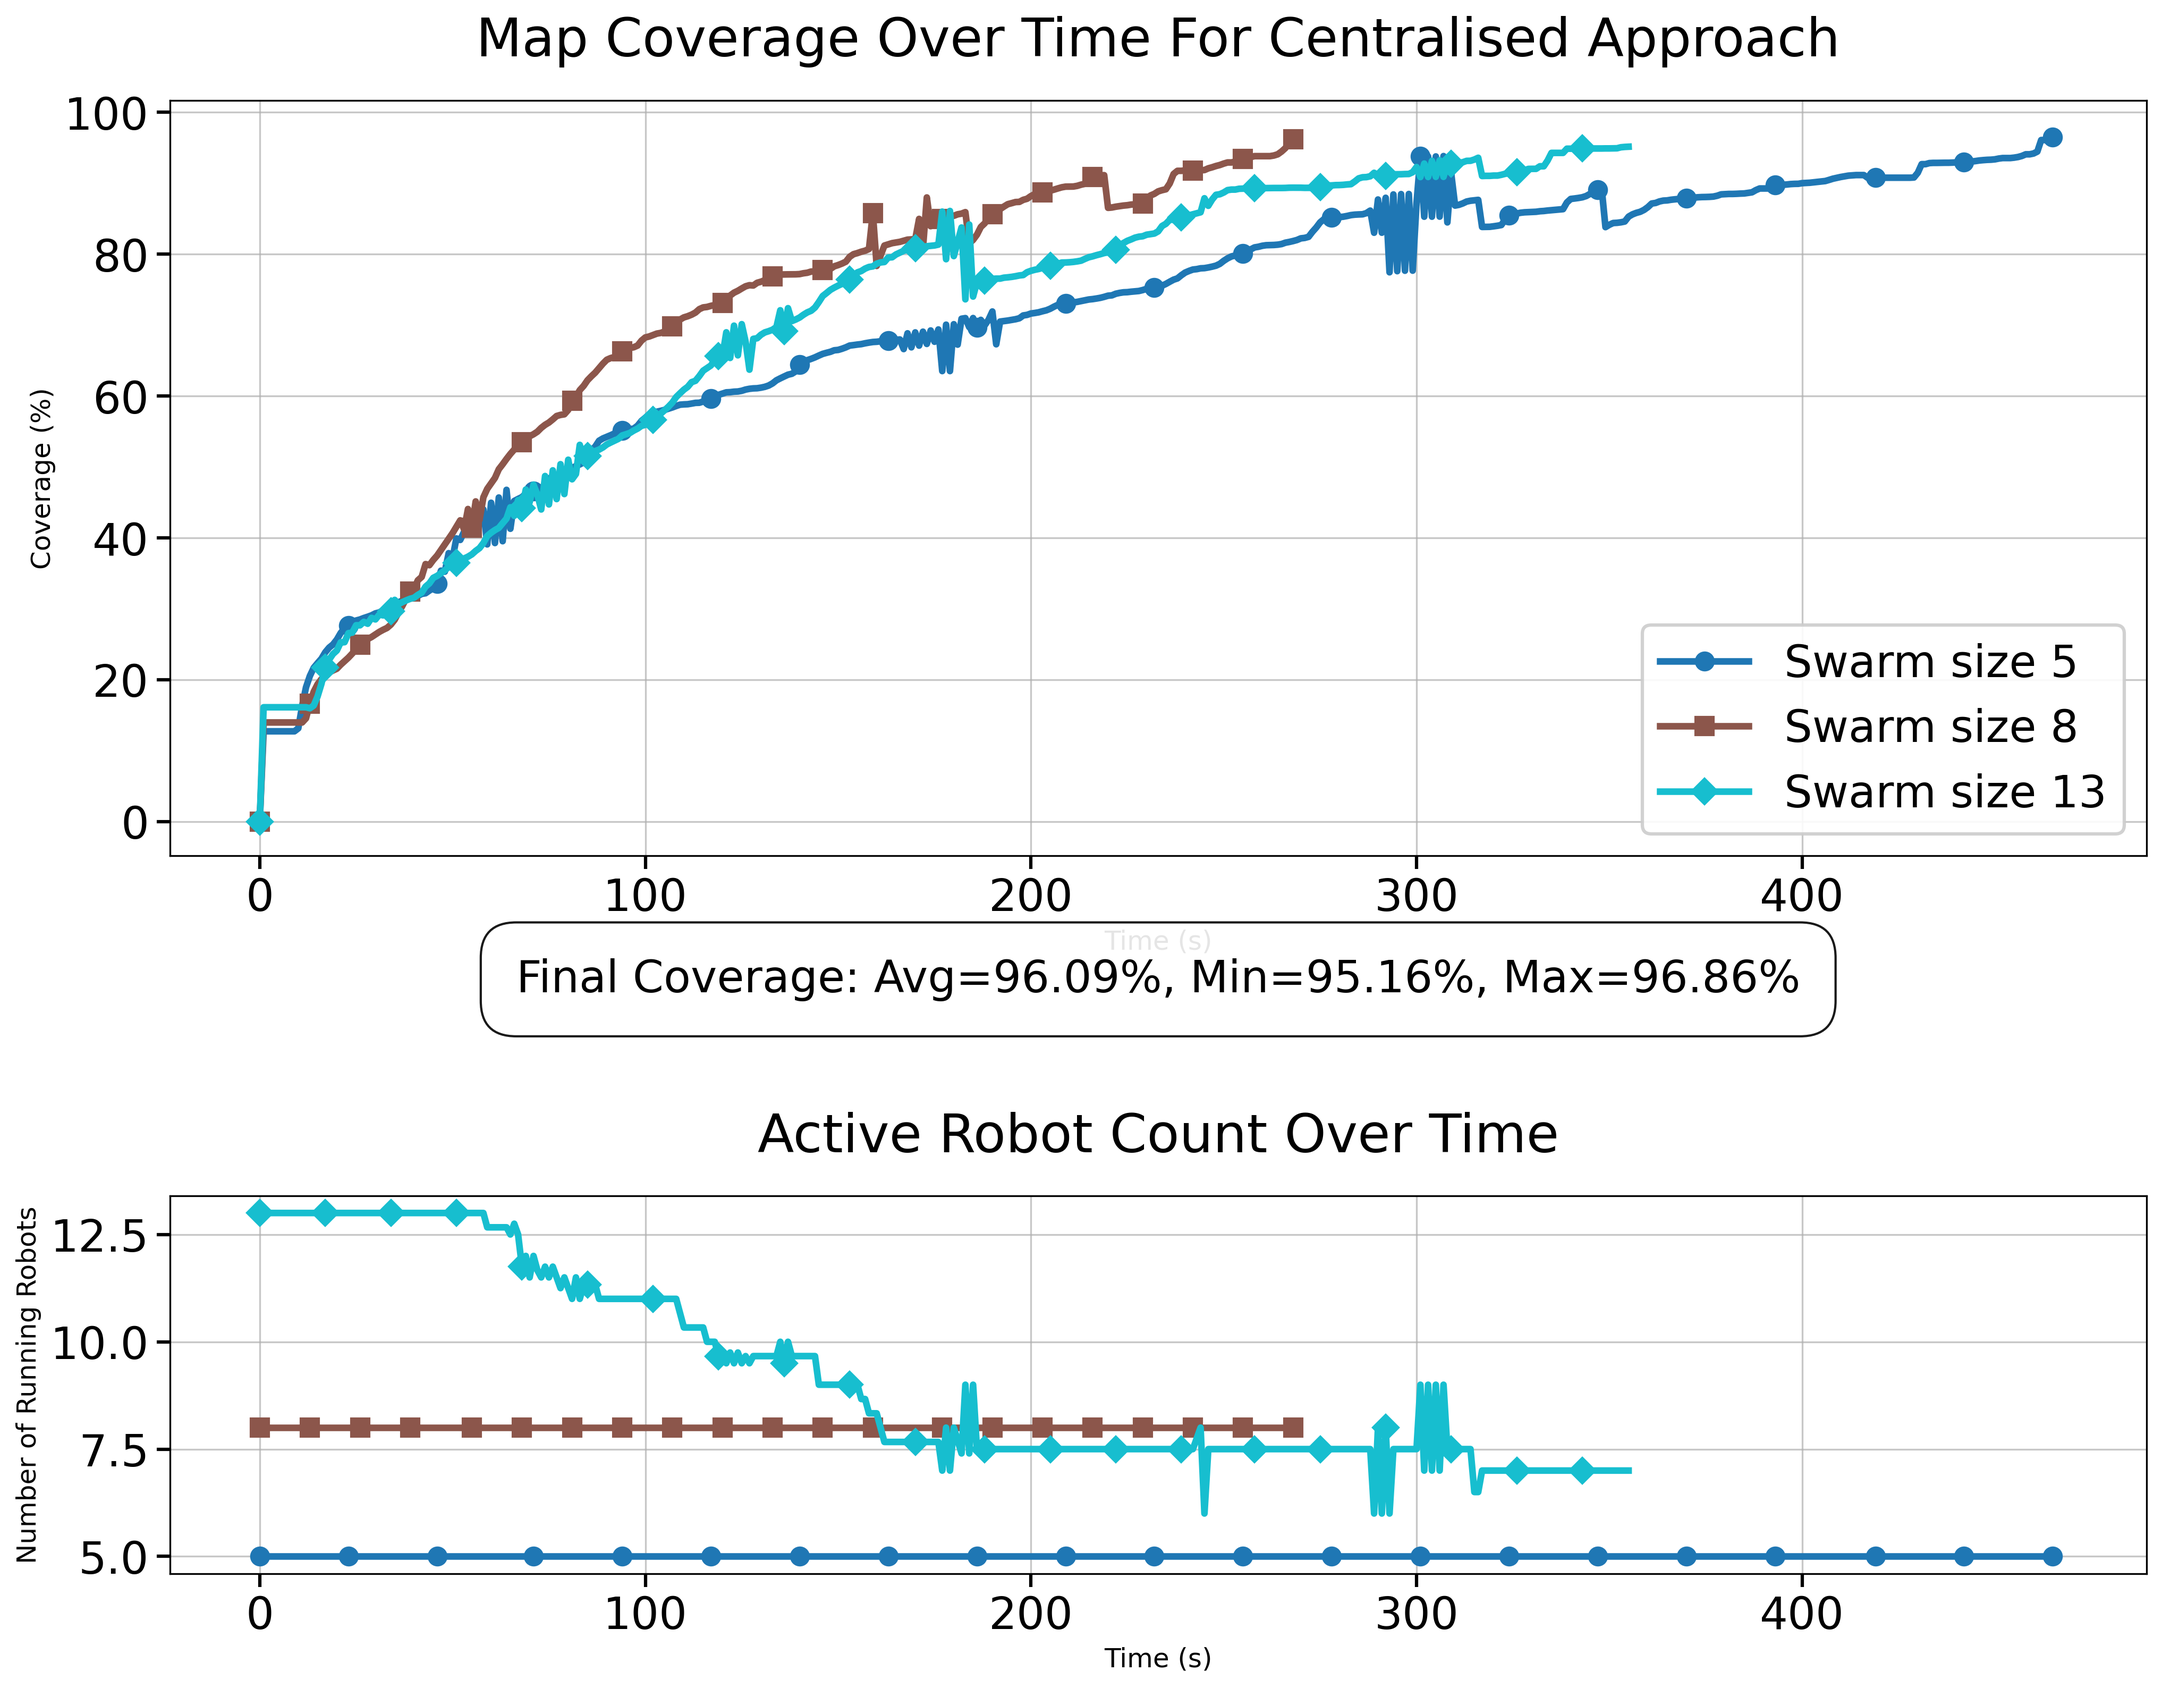
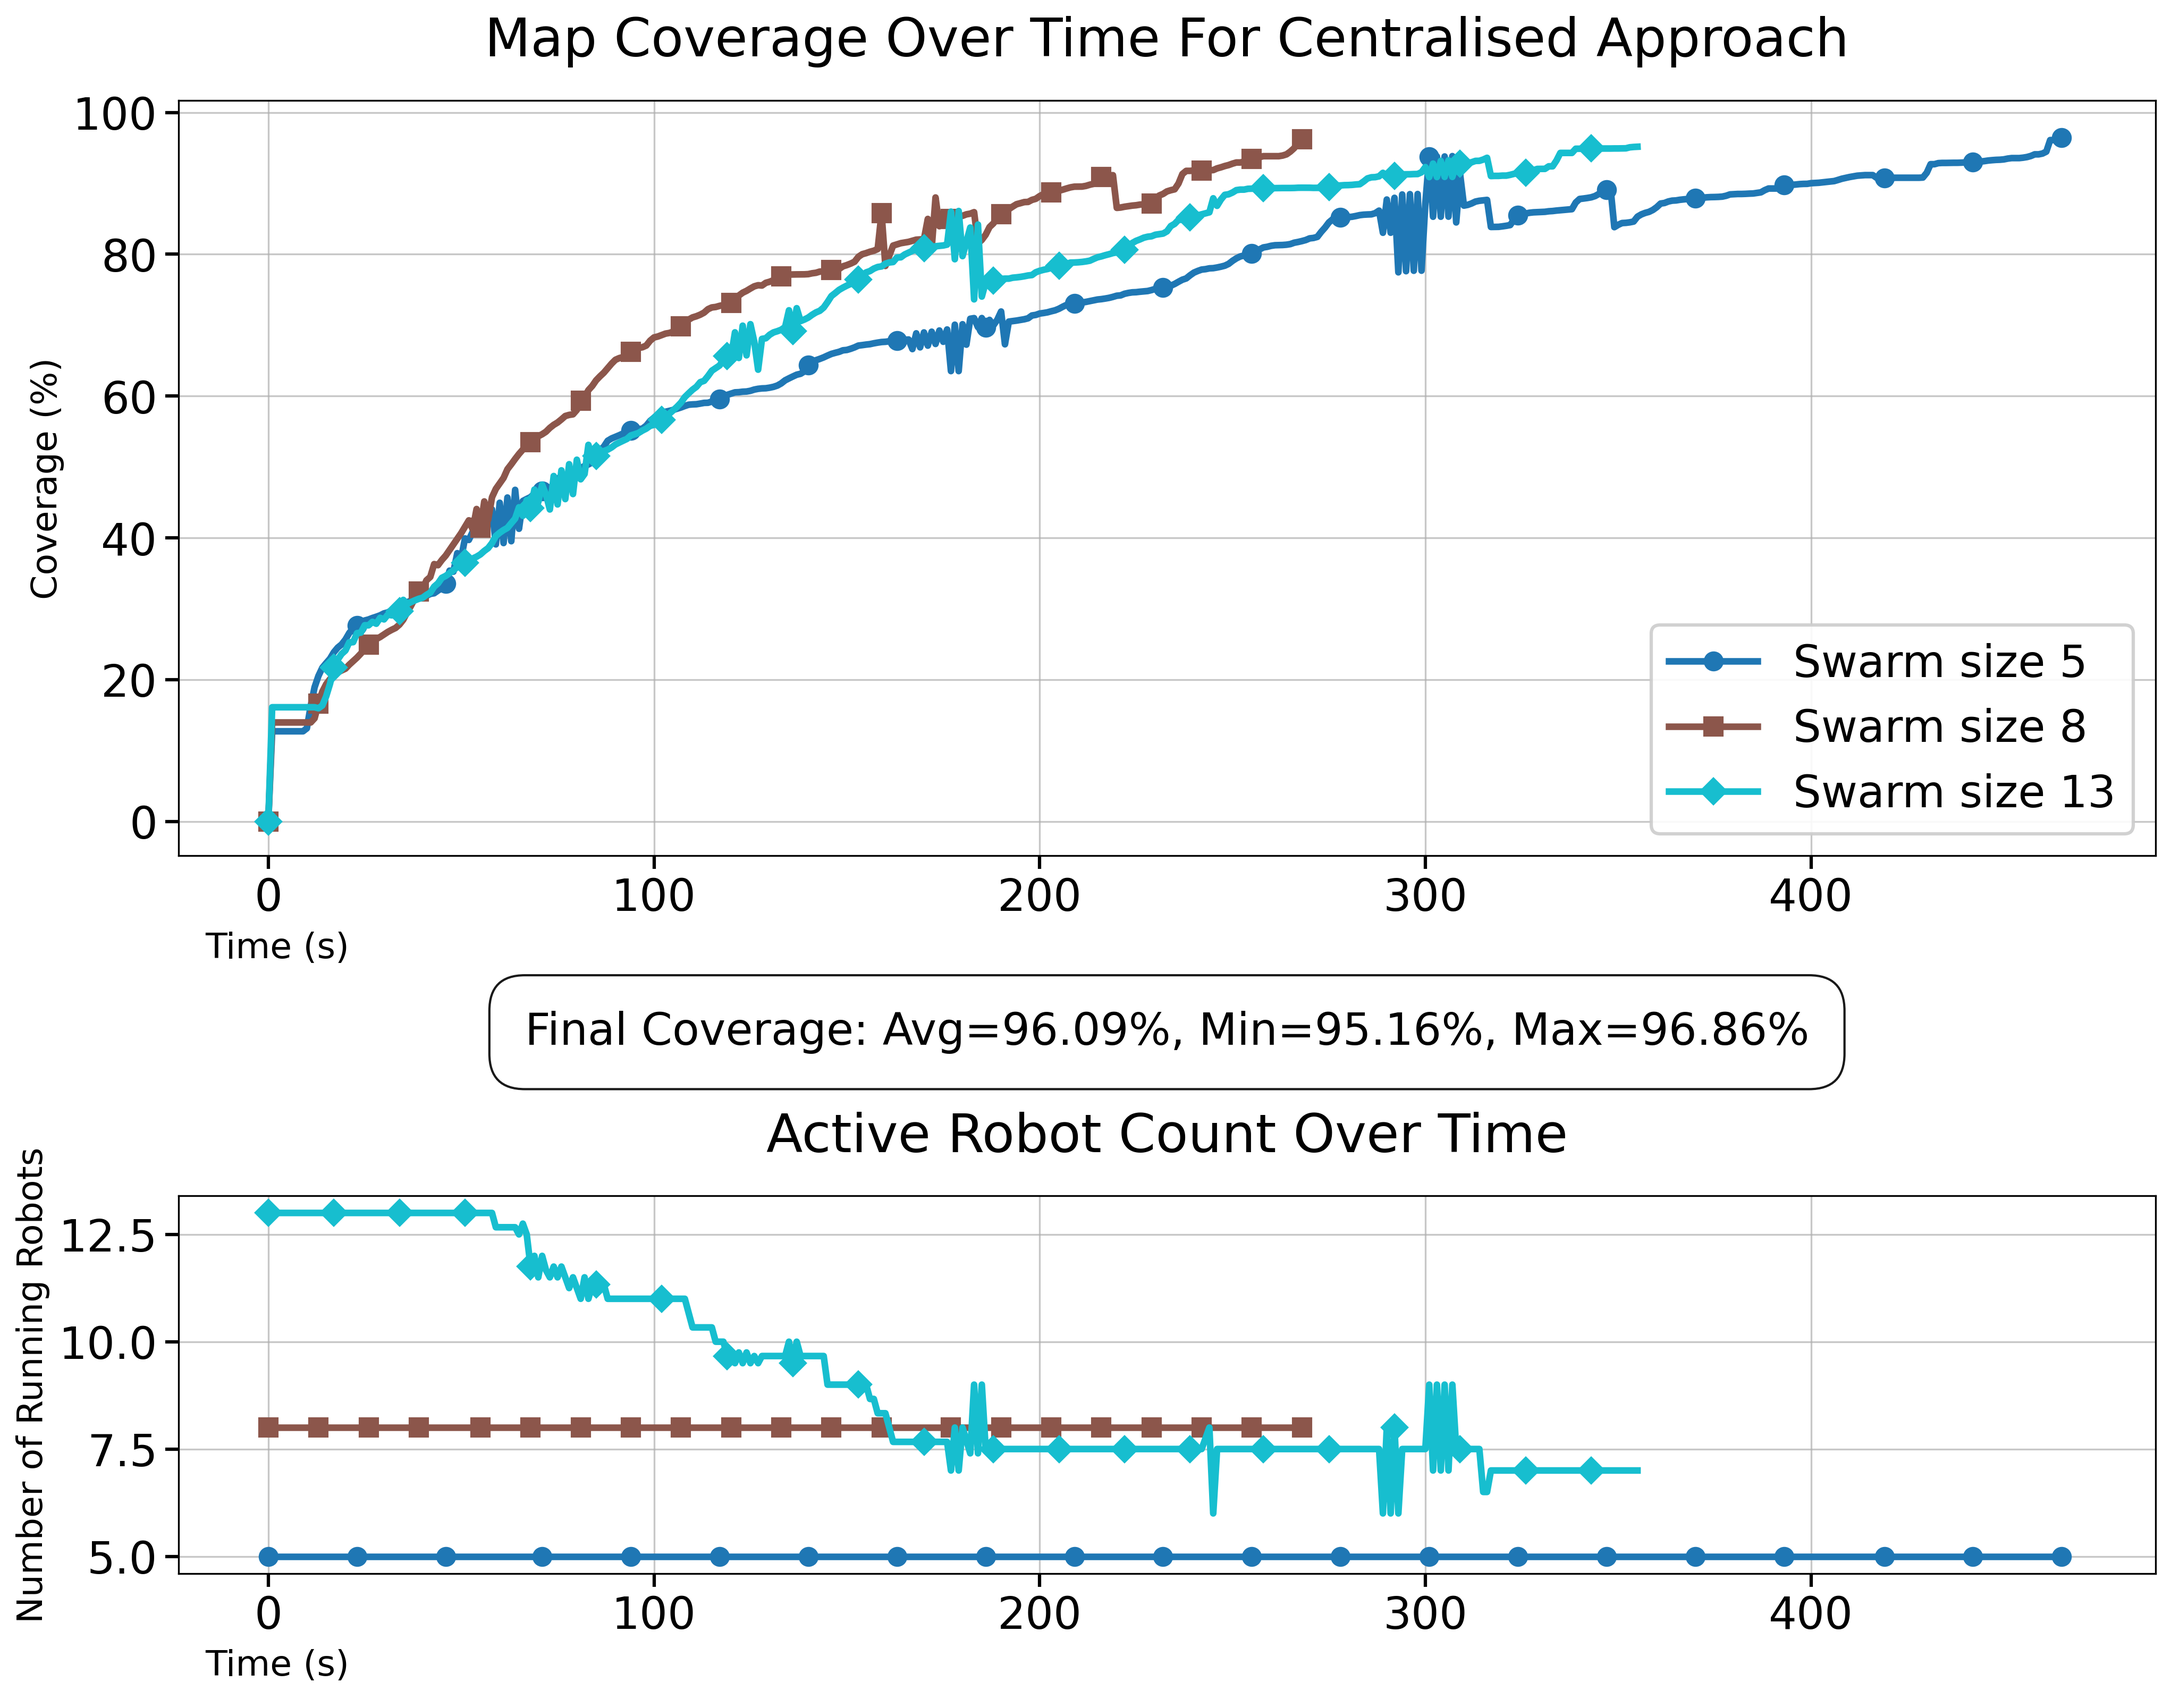
changed lable position for plots

diff --git a/statistics/full_map/map/area_coverage_plot.py b/statistics/full_map/map/area_coverage_plot.py
@@ -8,7 +8,7 @@ from matplotlib.gridspec import GridSpec
 plt.rcParams.update({
     'font.size': 20,          # Base font size
     'axes.titlesize': 24,     # Title font size
-    'axes.labelsize': 12,     # Axis label font size
+    'axes.labelsize': 16,     # Axis label font size
     'xtick.labelsize': 20,    # X-axis tick label size
     'ytick.labelsize': 20,    # Y-axis tick label size
     'legend.fontsize': 20,    # Legend font size
@@ -19,7 +19,7 @@ plt.rcParams.update({
 # Define swarm sizes and number of runs
 swarm_sizes = [5, 8, 13]
 num_runs = 3
-approach = "centralised"
+approach = "decentralised"
 
 # Function to read and process a single CSV file
 def read_csv_file(file_path):
@@ -116,6 +116,9 @@ ax_robots.set_ylabel('Number of Running Robots')
 ax_robots.set_title('Active Robot Count Over Time', pad=20)
 ax_robots.grid(True, alpha=0.7)
 
+ax_coverage.xaxis.set_label_coords(0.05, -0.1)
+ax_robots.xaxis.set_label_coords(0.05, -0.2)
+
 # Add a single legend for both plots in the top subplot - removed explicit fontsize
 if legend_entries:
     legend = ax_coverage.legend([entry[0] for entry in legend_entries], 
@@ -133,7 +136,7 @@ if all_dfs:
     
     # Add text annotation with statistics - removed explicit fontsize to use base font
     stat_text = f"Final Coverage: Avg={avg_final:.2f}%, Min={min_final:.2f}%, Max={max_final:.2f}%"
-    ax_coverage.annotate(stat_text, xy=(0.5, -0.18), xycoords='axes fraction', 
+    ax_coverage.annotate(stat_text, xy=(0.5, -0.25), xycoords='axes fraction', 
                 ha='center', 
                 bbox=dict(boxstyle="round,pad=0.8", fc="white", alpha=0.9, edgecolor='black'))
 
